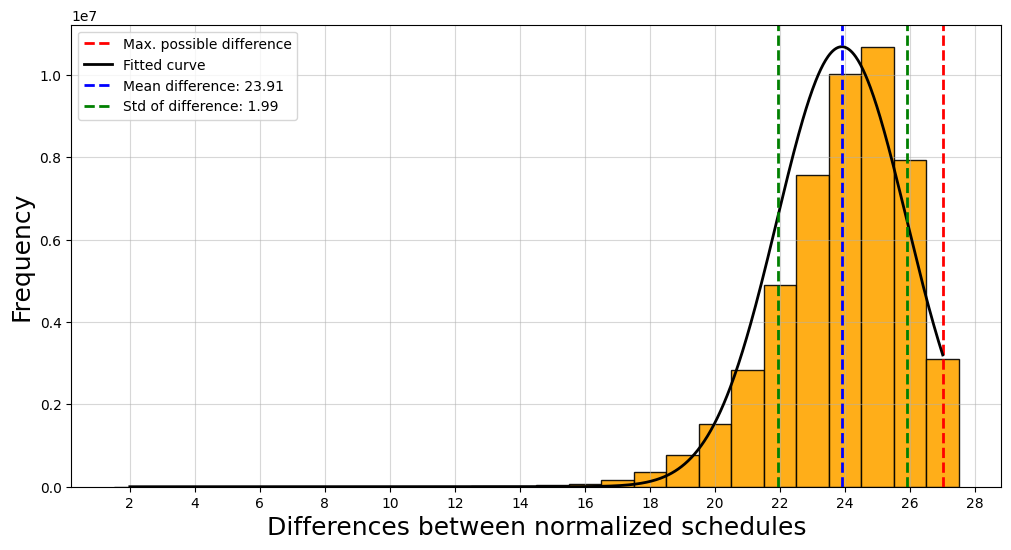
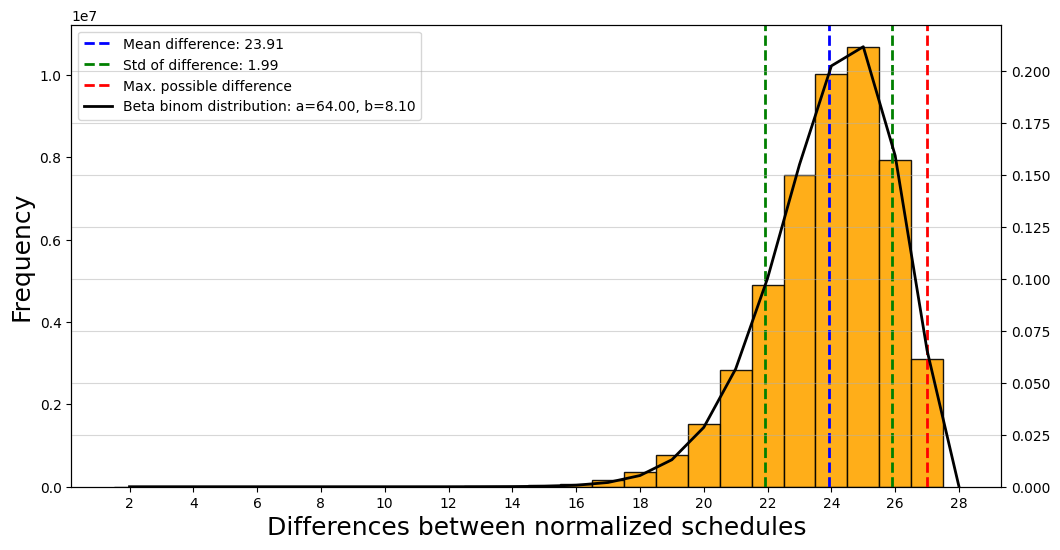
beta binom works!

diff --git a/TTP/plot.py b/TTP/plot.py
@@ -1,6 +1,6 @@
 import matplotlib.pyplot as plt
 import numpy as np
-from scipy.stats import norm, lognorm
+from scipy.stats import norm, lognorm, beta, betabinom
 from calc import *
 
 
@@ -43,7 +43,7 @@ def plot_upper_bound(max):
     plt.show()
 
 def plot_diff_norm(file_path, n, plot_ID, title_add="", show=False):
-    differences = [int(diff) for diff in open(file_path, "r").read()[:-1].split(",")]
+    differences = np.array([int(diff) for diff in open(file_path, "r").read()[:-1].split(",")])
     name = file_path.split("\\")[-1].split(".")[0].split(" ")[-1]
     fontsize = 18
 
@@ -59,49 +59,62 @@ def plot_diff_norm(file_path, n, plot_ID, title_add="", show=False):
     # since the first round is fixed and there are n//2 matchups in each round
     else:
         max_diff = calc_matchups(n) - (n//2)
-    min_diff = min(differences)
+
+    min_diff = np.min(differences)
     mean_diff = np.mean(differences)
     std_diff = np.std(differences)
 
     x_axis = range(min_diff, max_diff + 2)
 
     # Create the plot and histogram
-    fig, ax = plt.figure(figsize=(12, 6))
-    freqs, _, _ = plt.hist(differences, bins=x_axis, align='left', color='orange', alpha=0.9, edgecolor='black', linewidth=1)
+    _, ax1 = plt.subplots(figsize=(12, 6))
+    ax2 = ax1.twinx()
+    freqs, _, _ = ax1.hist(differences, bins=x_axis, align='left', color='orange', alpha=0.9, edgecolor='black', linewidth=1)
 
     # Add vertical lines for the max difference
     plt.axvline(x=max_diff, color='red', linestyle='--', linewidth=2, label="Max. possible difference")
 
     # Plot a curve to match the distribution of the differences
     if plot_ID < 3 and (plot_ID != 1 or n > 4):
-        x_axis_curve = np.linspace(min_diff, max_diff, 1000)
+        x_axis_fit = np.linspace(min_diff, max_diff + 1, 1000)
 
-        # curve = fit_curve(x_axis, freqs)
-        # plt.plot(x_axis_curve, curve(x_axis_curve), color='black', linestyle='-', linewidth=2, label="Fitted curve")
+        # pdf_fitted = lognorm.fit(differences)
+        # ax2.plot(x_axis_fit, pdf_fitted, color='black', linestyle='-', linewidth=2, label="Lognormal distribution")
 
-        pdf_fitted = norm.pdf(x_axis_curve, mean_diff, std_diff)
-        plt.plot(x_axis_curve, pdf_fitted * max(freqs) * (1 / max(pdf_fitted)), color='black', linestyle='-', linewidth=2, label="Normal dist. curve")
+        # pdf_fitted = norm.fit(x_axis_fit, mean_diff, std_diff)
+        # ax2.plot(x_axis_fit, pdf_fitted, color='black', linestyle='-', linewidth=2, label="Normal distribution")
 
-        # shape, loc, scale = lognorm.fit(differences)
-        # pdf_fitted = lognorm.pdf(x_axis_curve, shape, loc, scale)
-        # plt.plot(x_axis_curve, pdf_fitted * max(freqs) * (1 / max(pdf_fitted)), color='black', linestyle='-', linewidth=2, label="Lognormal dist.  curve")
+        # a, b = fit_beta(x_fit, np.append(freqs, [0]), max_diff)
+        # pdf_fitted = beta.pdf(x_axis_fit, a, b, loc=0, scale=max_diff)
+        # ax2.plot(x_axis_fit, pdf_fitted, color='black', linestyle='-', linewidth=2, label=f"Beta distribution: a={a:.2f}, b={b:.2f}")
 
-        plt.axvline(x=mean_diff, color='blue', linestyle='--', linewidth=2, label=f"Mean difference: {mean_diff:.2f}")
-        plt.axvline(x=(mean_diff - std_diff), color='green', linestyle='--', linewidth=2, label=f"Std of difference: {std_diff:.2f}")
-        plt.axvline(x=(mean_diff + std_diff), color='green', linestyle='--', linewidth=2)
+        a, b = fit_beta_binom(x_axis, np.append(freqs, [0]), max_diff)
+        pmf_fitted = betabinom.pmf(x_axis, max_diff, a, b, loc=0)
+        ax2.plot(x_axis, pmf_fitted, color='black', linestyle='-', linewidth=2, label=f"Beta binom distribution: a={a:.2f}, b={b:.2f}")
+
+        ax1.axvline(x=mean_diff, color='blue', linestyle='--', linewidth=2, label=f"Mean difference: {mean_diff:.2f}")
+        ax1.axvline(x=(mean_diff - std_diff), color='green', linestyle='--', linewidth=2, label=f"Std of difference: {std_diff:.2f}")
+        ax1.axvline(x=(mean_diff + std_diff), color='green', linestyle='--', linewidth=2)
 
     # Code to only show every other x value
     # Checks to make sure the last value is the max difference
     x_values = x_axis[::2]
-    if x_values[-1] != max_diff:
-        x_values[-1] = max_diff
+    # if x_values[-1] != max_diff:
+    #     x_values[-1] = max_diff
 
     # Set the labels and title
-    plt.xticks(x_values)
-    plt.xlabel("Differences between normalized schedules", fontsize=fontsize)
-    plt.ylabel("Frequency", fontsize=fontsize)
+    ax1.set_xticks(x_values)
+    ax1.set_xlabel("Differences between normalized schedules", fontsize=fontsize)
+    ax1.set_ylabel("Frequency", fontsize=fontsize)
     plt.grid(alpha=0.5)
-    plt.legend(loc='upper left', bbox_to_anchor=(0,1))
+
+    # Makes sure both y-axes starts at 0
+    ax1.set_ylim(bottom=0)
+    ax2.set_ylim(bottom=0)
+
+    lines1, labels1 = ax1.get_legend_handles_labels()
+    lines2, labels2 = ax2.get_legend_handles_labels()
+    ax1.legend(lines1 + lines2, labels1 + labels2, loc='upper left', bbox_to_anchor=(0,1))
 
     # Depending on the plot type, save the plot with a different name
     # Type 0 is jsut for the differences
@@ -231,7 +244,7 @@ if __name__ == "__main__":
         # ("./Distances/Distances Teamless Random-10k-10.csv", 10, 2, "10k random ")
     ]
 
-    for plot in plots[0:1]:
+    for plot in plots[6:7]:
         file_path, n, plot_ID, title_add = plot
         plot_diff_norm(file_path, n, plot_ID, title_add, True)
 

diff --git a/TTP/calc.py b/TTP/calc.py
@@ -1,8 +1,11 @@
 import math
 import ast
 import sys
+import numpy as np
 from TTP import *
 from plot import *
+from scipy.stats import beta, betabinom
+from sklearn.metrics import r2_score
 
 
 # Calculate the number of possible rounds for a given number of teams
@@ -19,30 +22,31 @@ def calc_matchups(n):
 def calc_drr_schedules(n):
     return math.factorial(calc_rounds(n)) // math.factorial(calc_rounds(n) - (n-1)*2)
 
-# Adjusted from: https://www.statology.org/curve-fitting-python/
-def adjusted_R2(x, y, degree):
-    curve = np.polyfit(x, y, degree)
-    p = np.poly1d(curve)
-    yhat = p(x)
-    ybar = np.sum(y)/len(y)
-    ssreg = np.sum((yhat-ybar)**2)
-    sstot = np.sum((y - ybar)**2)
-    result = 1- (((1-(ssreg/sstot))*(len(y)-1))/(len(y)-degree-1))
-    return result, curve
+def adjusted_R2(x, expected, max_diff, a, b):
+    pdf = beta.pdf(x, a, b, loc=0, scale=max_diff)
+    r2 = r2_score(expected, pdf)
+    return r2
 
+def diff_beta_binom_fit(x, expected, max_diff, a, b):
+    pdf = betabinom.pmf(x, max_diff, a, b, loc=0)
+    score = np.sum((expected - pdf)**2)
+    return score
 
-def fit_curve(x, y):
-    x = list(x)[:-1]
-    best_fit = 0
-    best_curve = None
+def fit_beta_binom(x, data, max_diff):
+    x = list(x)
+    best_fit = np.inf
+    best_pmf = None
+    expected = data / np.sum(data)
 
-    for degree in range(1, 8):
-        result = adjusted_R2(x, y, degree)
-        if result[0] > best_fit:
-            best_fit = result[0]
-            best_curve = result[1]
+    for a in np.arange(1, 1000, 1):
+        for b in np.arange(0.1, 30, 0.1):
+            result = diff_beta_binom_fit(x, expected, max_diff, a, b)
+            if result < best_fit:
+                best_fit = result
+                best_pmf = (a, b)
 
-    return np.poly1d(best_curve)
+    print(f"Score: {best_fit}, a: {best_pmf[0]}, b: {best_pmf[1]}")
+    return best_pmf
 
 
 # Verifies one given schedule

diff --git a/Latin Squares/LS.py b/Latin Squares/LS.py
@@ -2,7 +2,7 @@ import numpy as np
 from plot import plot_violations
 
 # Generate a random Latin Square of size n
-# Ccolumns are most likely invalid
+# Row-wise generation, thus columns are most likely invalid
 def random_LS(n):
     LS = np.array([])
 
@@ -17,6 +17,8 @@ def random_LS(n):
 def check_LS(n, LS):
     violations = 0
 
+    # Turning each column into a set and subtracting the length
+    # from n tells us how many numbers are missing
     for i in range(n):
         violations += n - len(set(LS[:, i]))
     
@@ -26,9 +28,11 @@ def check_LS(n, LS):
 def calc_violations(n_lower, n_upper, power):
     results = {}
 
+    # Outer loop for the size of the Latin Square
     for n in range(n_lower, n_upper + 1, 2):
         results[n] = []
 
+        # Inner loop saving the number of violations for each Latin Square
         for _ in range(10**power):
             ls = random_LS(n)
             violations = check_LS(n, ls)
@@ -36,7 +40,6 @@ def calc_violations(n_lower, n_upper, power):
     
     return results
         
-
 if __name__ == "__main__":
     sample_size_power = 5
     result = calc_violations(4, 50, sample_size_power)

diff --git a/Latin Squares/plot.py b/Latin Squares/plot.py
@@ -34,7 +34,6 @@ def plot_histogram(n, violations, power, mean_diff, std_diff, show=False):
     # Makes sure both y-axes starts at 0
     ax1.set_ylim(bottom=0)
     ax2.set_ylim(bottom=0)
-    ax1.legend()
 
     # Combine legends from both axes
     lines1, labels1 = ax1.get_legend_handles_labels()
